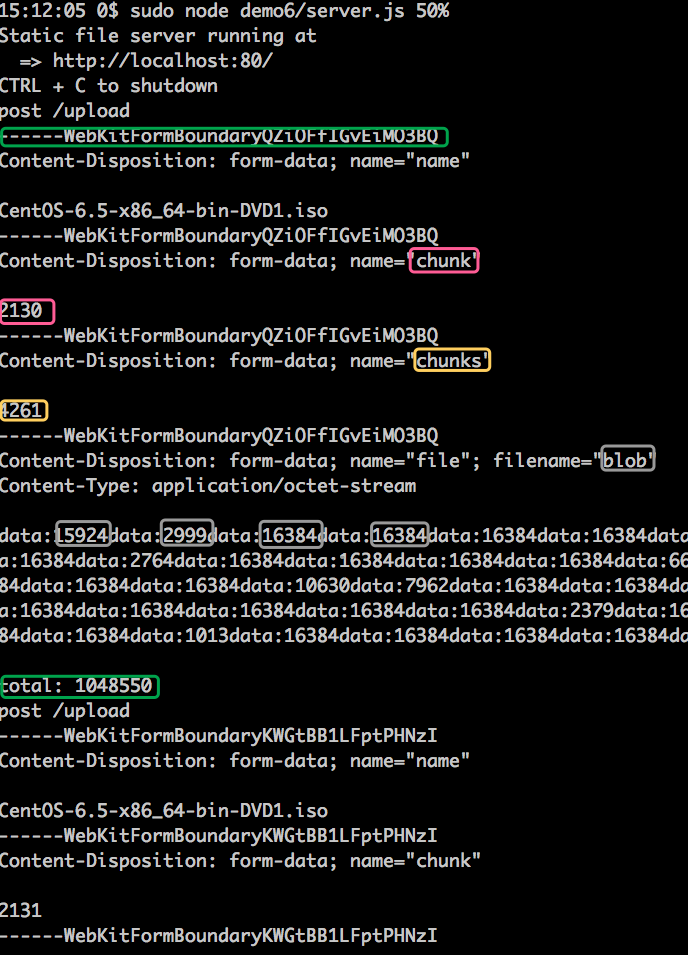
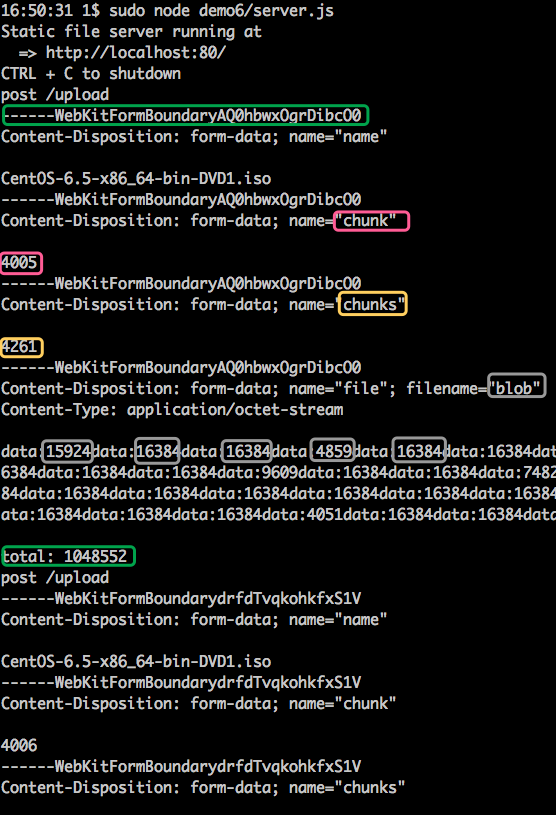
null

Changed region(s): [[0.0, 0.0, 1.0, 1.0]]

diff --git a/README.md b/README.md
@@ -219,10 +219,10 @@ http协议是一个应用层协议。http协议在**application**和**network tr
 
 话说回来，所以要把文件数据拆分成一个较小的单元来用http传输，并且
 * 用块发送可以降低token冲突的概率。上传文件是使用一个随机token来标记数据边界(第一个绿框)的。
-这个方法有缺点，可能会冲突，特别是文件大的时候。
+当文件大的时候，会有可能遇到和token一样的字符串。但是，分块传，会每次都换一个token。
 * 适当的**块**大小，有助于浏览器读取文件。比如本例中chrome用的是slice读取文件，我们不能指望它很智能，塞给它一个很大的文件，让它很好的处理。有些浏览器对文件大小有限制，甚至在传大文件的时候会卡死。
 
-上图中，红色的框表示当前传输的是**第几块**数据。因为我们指定是50%的百分比，所以这里是4千多的中间位置 -- 2千多。
+上图中，红色的框表示当前传输的是**第几块**数据。因为服务端给了随机值94%，所以这里是4261的尾部 -- 4005。
 
 黄色的框表示一共有多少块数据。当红色和黄色相等的时候，表示文件传输完成。
 
@@ -243,8 +243,38 @@ http协议是一个应用层协议。http协议在**application**和**network tr
 
 这个例子，用来展示plupload的`UI Widget`。
 
-除非你看到它，否则我怎么描述都没用。
-
 <img src="img/7.png" width="600" />
 
-如果你看到它了，没错！就是它！
+在index.html中，ui部分只需安置一个div
+>    <div id="uploader"></div>    
+
+plupload会在这个div中，自动**安插**一个ui组件，就是图片中展示的那个。
+
+这样极大的方便了开发，你可能一句js都没写，就实现了复杂的图片上传。
+当然，你可以定制这个组件，那样需要一些学习成本，并且挺高的。所以，如果你想要一个轻量，自定义的ui组件的时候，就需要自己设计ui了。
+比如下面这样的
+
+<img src="img/7.1.png" width="300" />
+
+在上面这个组件中，要求
+
+* 最多只能选n张
+* 更好的用户体验 
+* 可以删除节点
+* 上传失败后可以重传
+* 页面大小控制在100k以内
+
+## 总结
+
+在生活中，图片上传的应用越来越广泛。特别是在智能手机普及以后，获得图片是很便捷的，图片的质量也很高。
+
+比如，在一个突发事件中，人们很及时的就能从各个角度拍到它，然后上传到互联网上或者分享到朋友圈。
+
+在移动端的开发中，图片上传技术面临一些挑战。这是因为手机的特点，它展示空间小，流量需要付费所导致的。
+站在运营商角度，从长远来看，手机流量会是主要的营收服务。这样，用户就会在乎自己的流量。所以，编写一个省流量的图片上传程序是一个挑战。
+
+
+另一方面，随着浏览器和web技术的持续推进。传统的大文件上传，势必会转到web上来实现，而不是一些桌面app。这里面甚至还蕴含一些商机。
+这还需要一些时间，因为我知道很多人还在用xp，但趋势很明确的。
+
+
